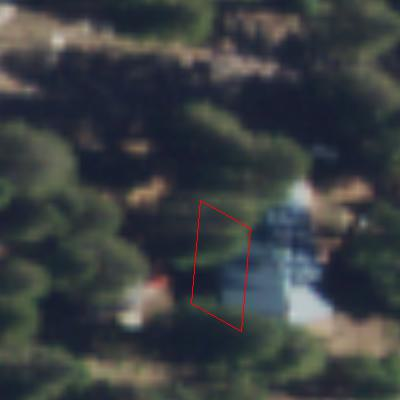
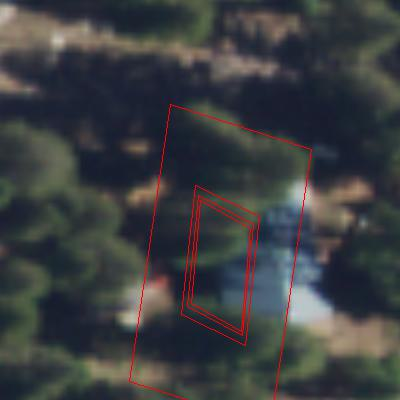
drawing

diff --git a/sophia-test/boundingbox.py b/sophia-test/boundingbox.py
@@ -1,12 +1,12 @@
 import numpy as np
 from PIL import Image, ImageDraw
+from shapely.geometry import Polygon
 
 RESOLUTION = 400
 IMAGE_WIDTH_IN_METERS = 50
 METERS_PER_PIXEL = IMAGE_WIDTH_IN_METERS / RESOLUTION
-bounding_box = [[-120.1060273,38.8073838],[-120.1059951,38.8072709],[-120.1058791,38.807291],[-120.1059113,38.8074039],[-120.1060273,38.8073838]]
-
 METERS_PER_LAT_DEGREE = 111320
+ZONES_IN_METERS = [5, 15, 100]
 
 def meters_per_long_degree(lat_center):
     return 111320 * np.cos(np.radians(lat_center))
@@ -32,17 +32,67 @@ def bounding_box_to_pixel_coords(bounding_box):
 
     return coords
 
+def calculate_centroid(coords):
+    # Average of the x and y coordinates of the polygon vertices
+    x_coords = [coord[0] for coord in coords]
+    y_coords = [coord[1] for coord in coords]
+    centroid_x = sum(x_coords) / len(coords)
+    centroid_y = sum(y_coords) / len(coords)
+    return (centroid_x, centroid_y)
+
+def scale_polygon(coords, buffer_in_pixels):
+    centroid = calculate_centroid(coords)
+    scaled_coords = []
+    
+    for x, y in coords:
+        # Calculate vector from centroid to the point
+        vector_x = x - centroid[0]
+        vector_y = y - centroid[1]
+        
+        # Scale the vector
+        scaled_x = centroid[0] + vector_x * (1 + buffer_in_pixels / np.sqrt(vector_x**2 + vector_y**2))
+        scaled_y = centroid[1] + vector_y * (1 + buffer_in_pixels / np.sqrt(vector_x**2 + vector_y**2))
+        
+        scaled_coords.append((int(scaled_x), int(scaled_y)))
+    
+    return scaled_coords
+
+def get_polygons_from_bounding_box(bounding_box):
+    res = []
+    polygon_coords = bounding_box_to_pixel_coords(bounding_box)
+    res.append(polygon_coords)
+    for zone in ZONES_IN_METERS:
+        scaled_polygon_coords = scale_polygon(polygon_coords, zone)
+        res.append(scaled_polygon_coords)
+    return res
+
+
+
+
 IMAGE_NAME = "50x50.png"
+bounding_box = [[-120.1060273,38.8073838],[-120.1059951,38.8072709],[-120.1058791,38.807291],[-120.1059113,38.8074039]]
+polygon_coords = bounding_box_to_pixel_coords(bounding_box)
+scaled_polygon_coords = scale_polygon(polygon_coords, 100)
+
+polygons = get_polygons_from_bounding_box(bounding_box)
+
+print("polygon_coords: ", polygon_coords)
+print("centroid: ", calculate_centroid(polygon_coords))
+print("scaled: ", scaled_polygon_coords)
+
 
 # Load the image
 image = Image.open(IMAGE_NAME)  # Replace with your image file path
 draw = ImageDraw.Draw(image)
 
-# Define the coordinates of the polygon
-polygon_coords = bounding_box_to_pixel_coords(bounding_box)
-
 # Draw the polygon on the image
-draw.polygon(polygon_coords, outline='red', fill=None)  # Change 'red' to any color you want
+# draw.polygon(polygon_coords, outline='red', fill=None)  # Change 'red' to any color you want
+# draw.polygon(scaled_polygon_coords, outline='blue', fill=None)  # Change 'red' to any color you want
+
+for polygon in polygons:   
+    draw.polygon(polygon, outline='red', fill=None)  # Change 'red' to any color you want
+
+
 
 # Save or display the result
 image.save('image_with_polygon.jpg')  # You can save the modified image
